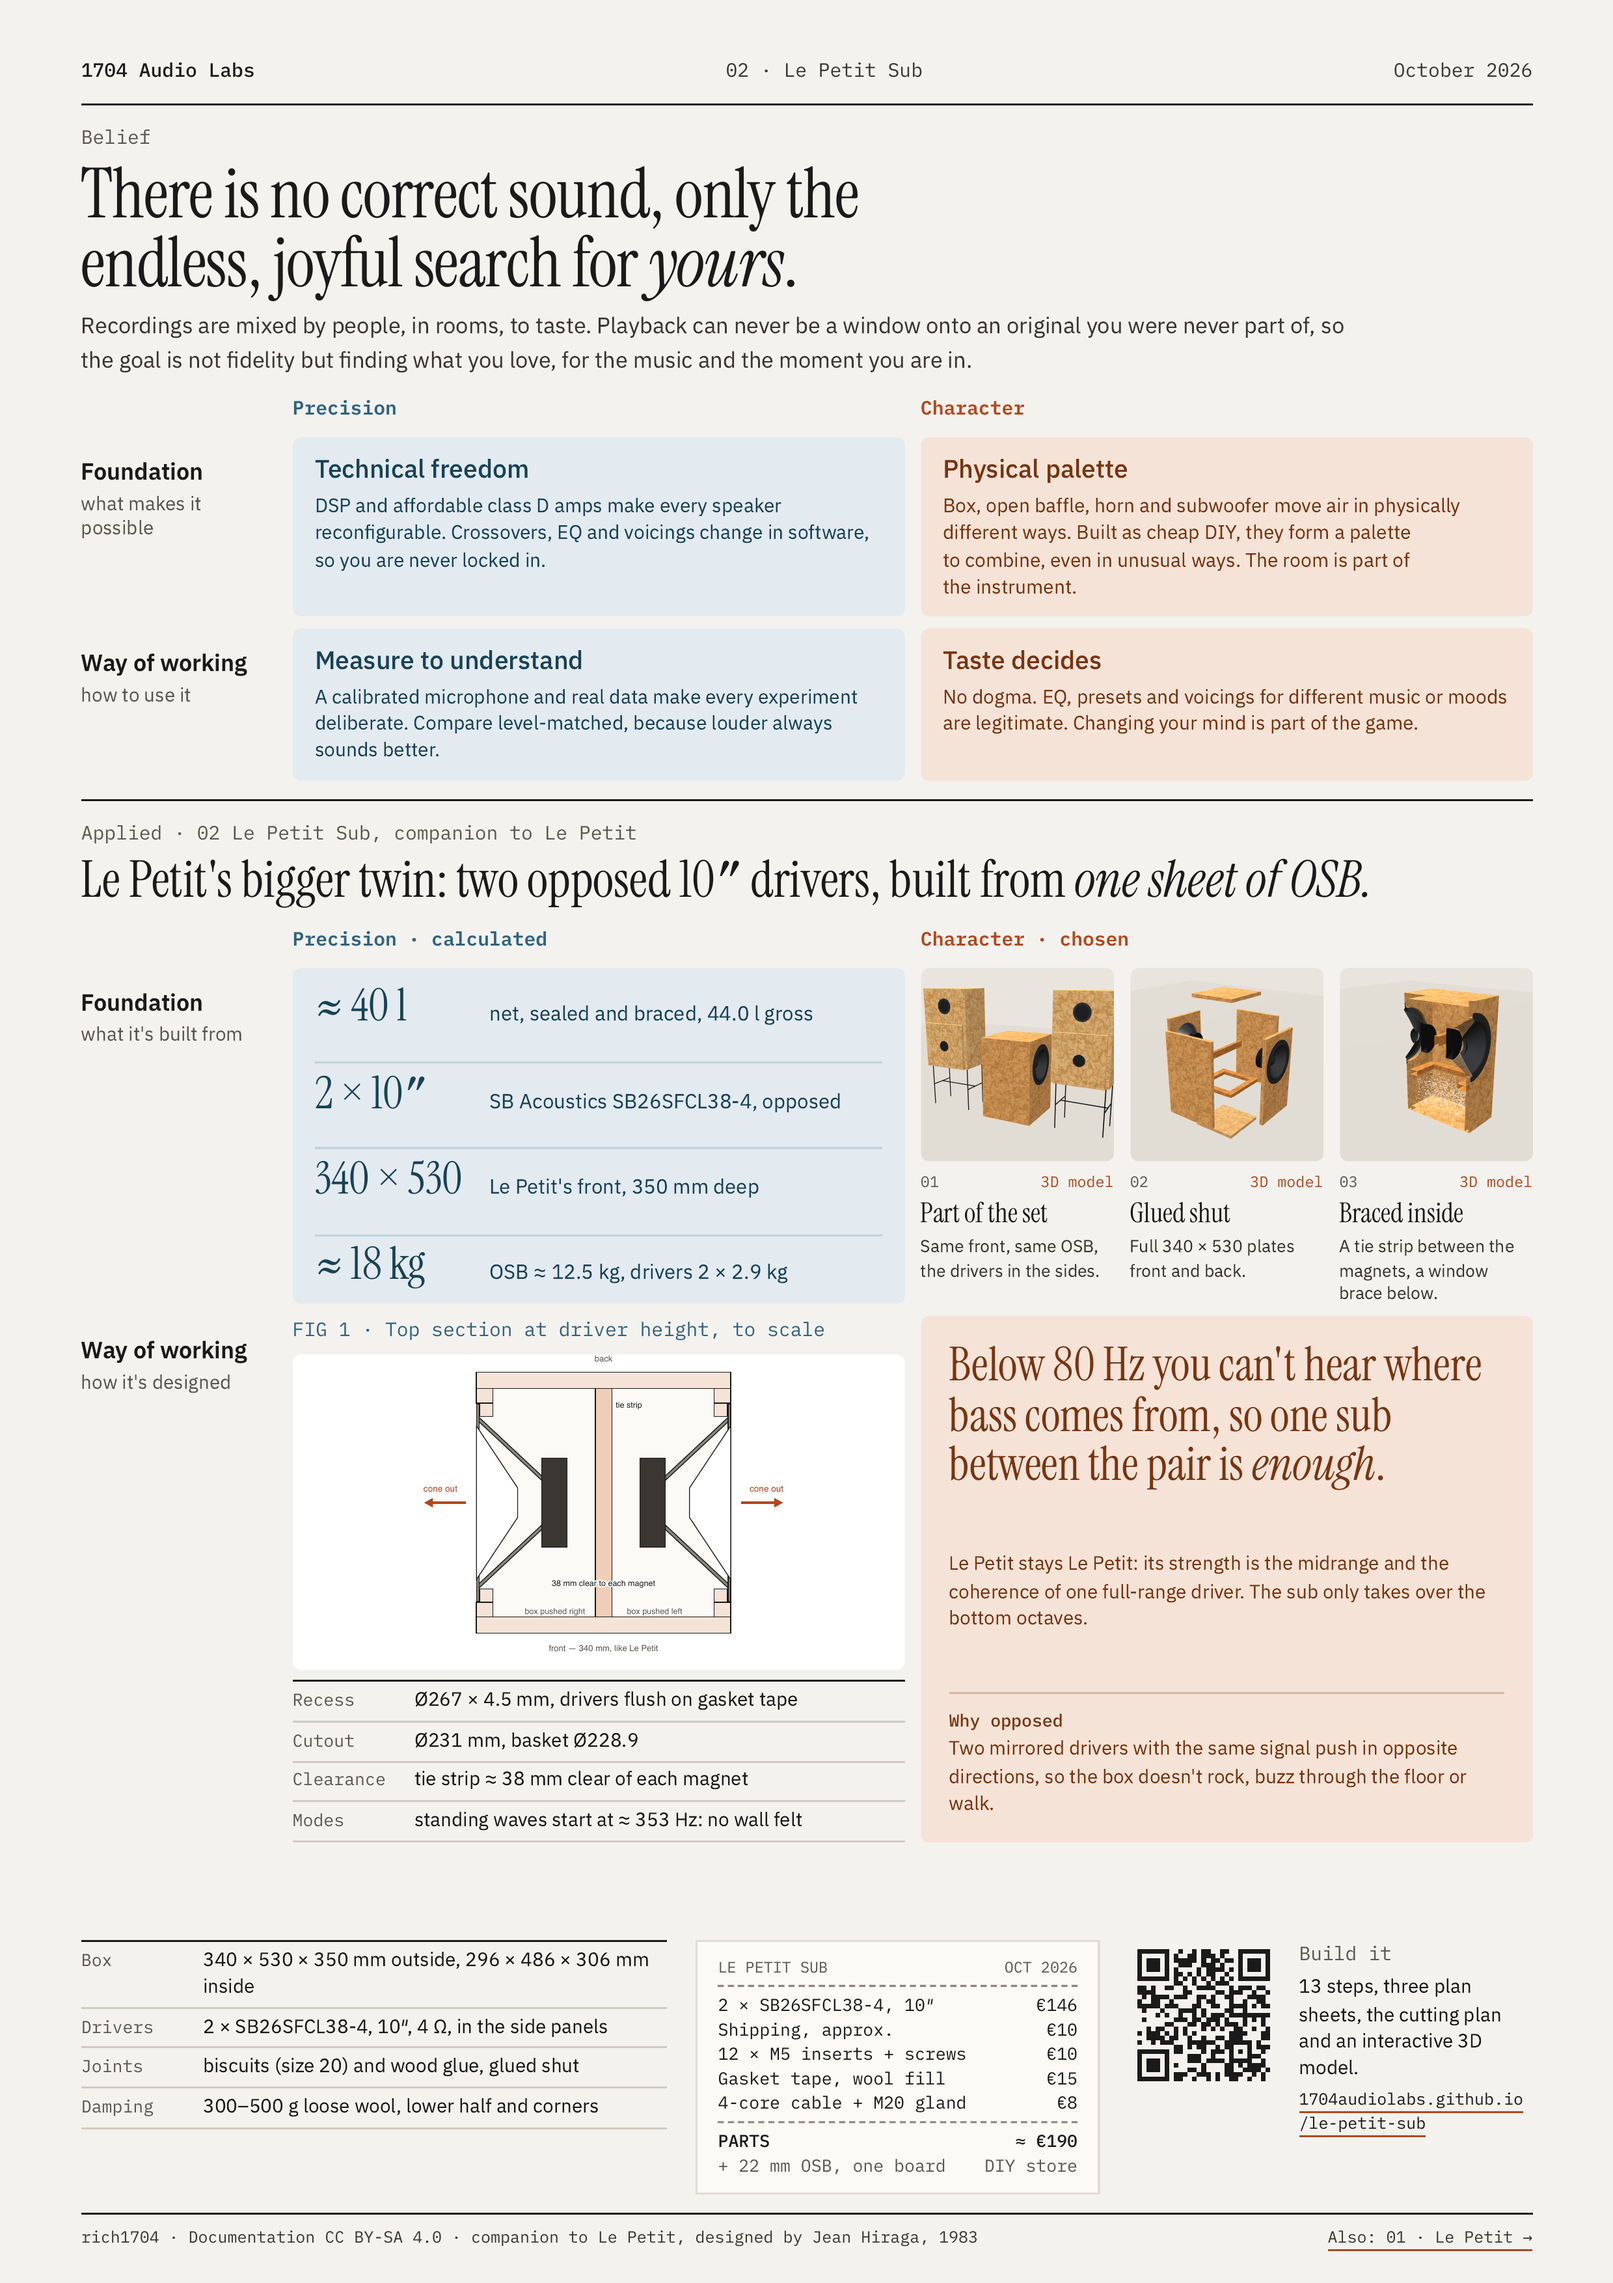
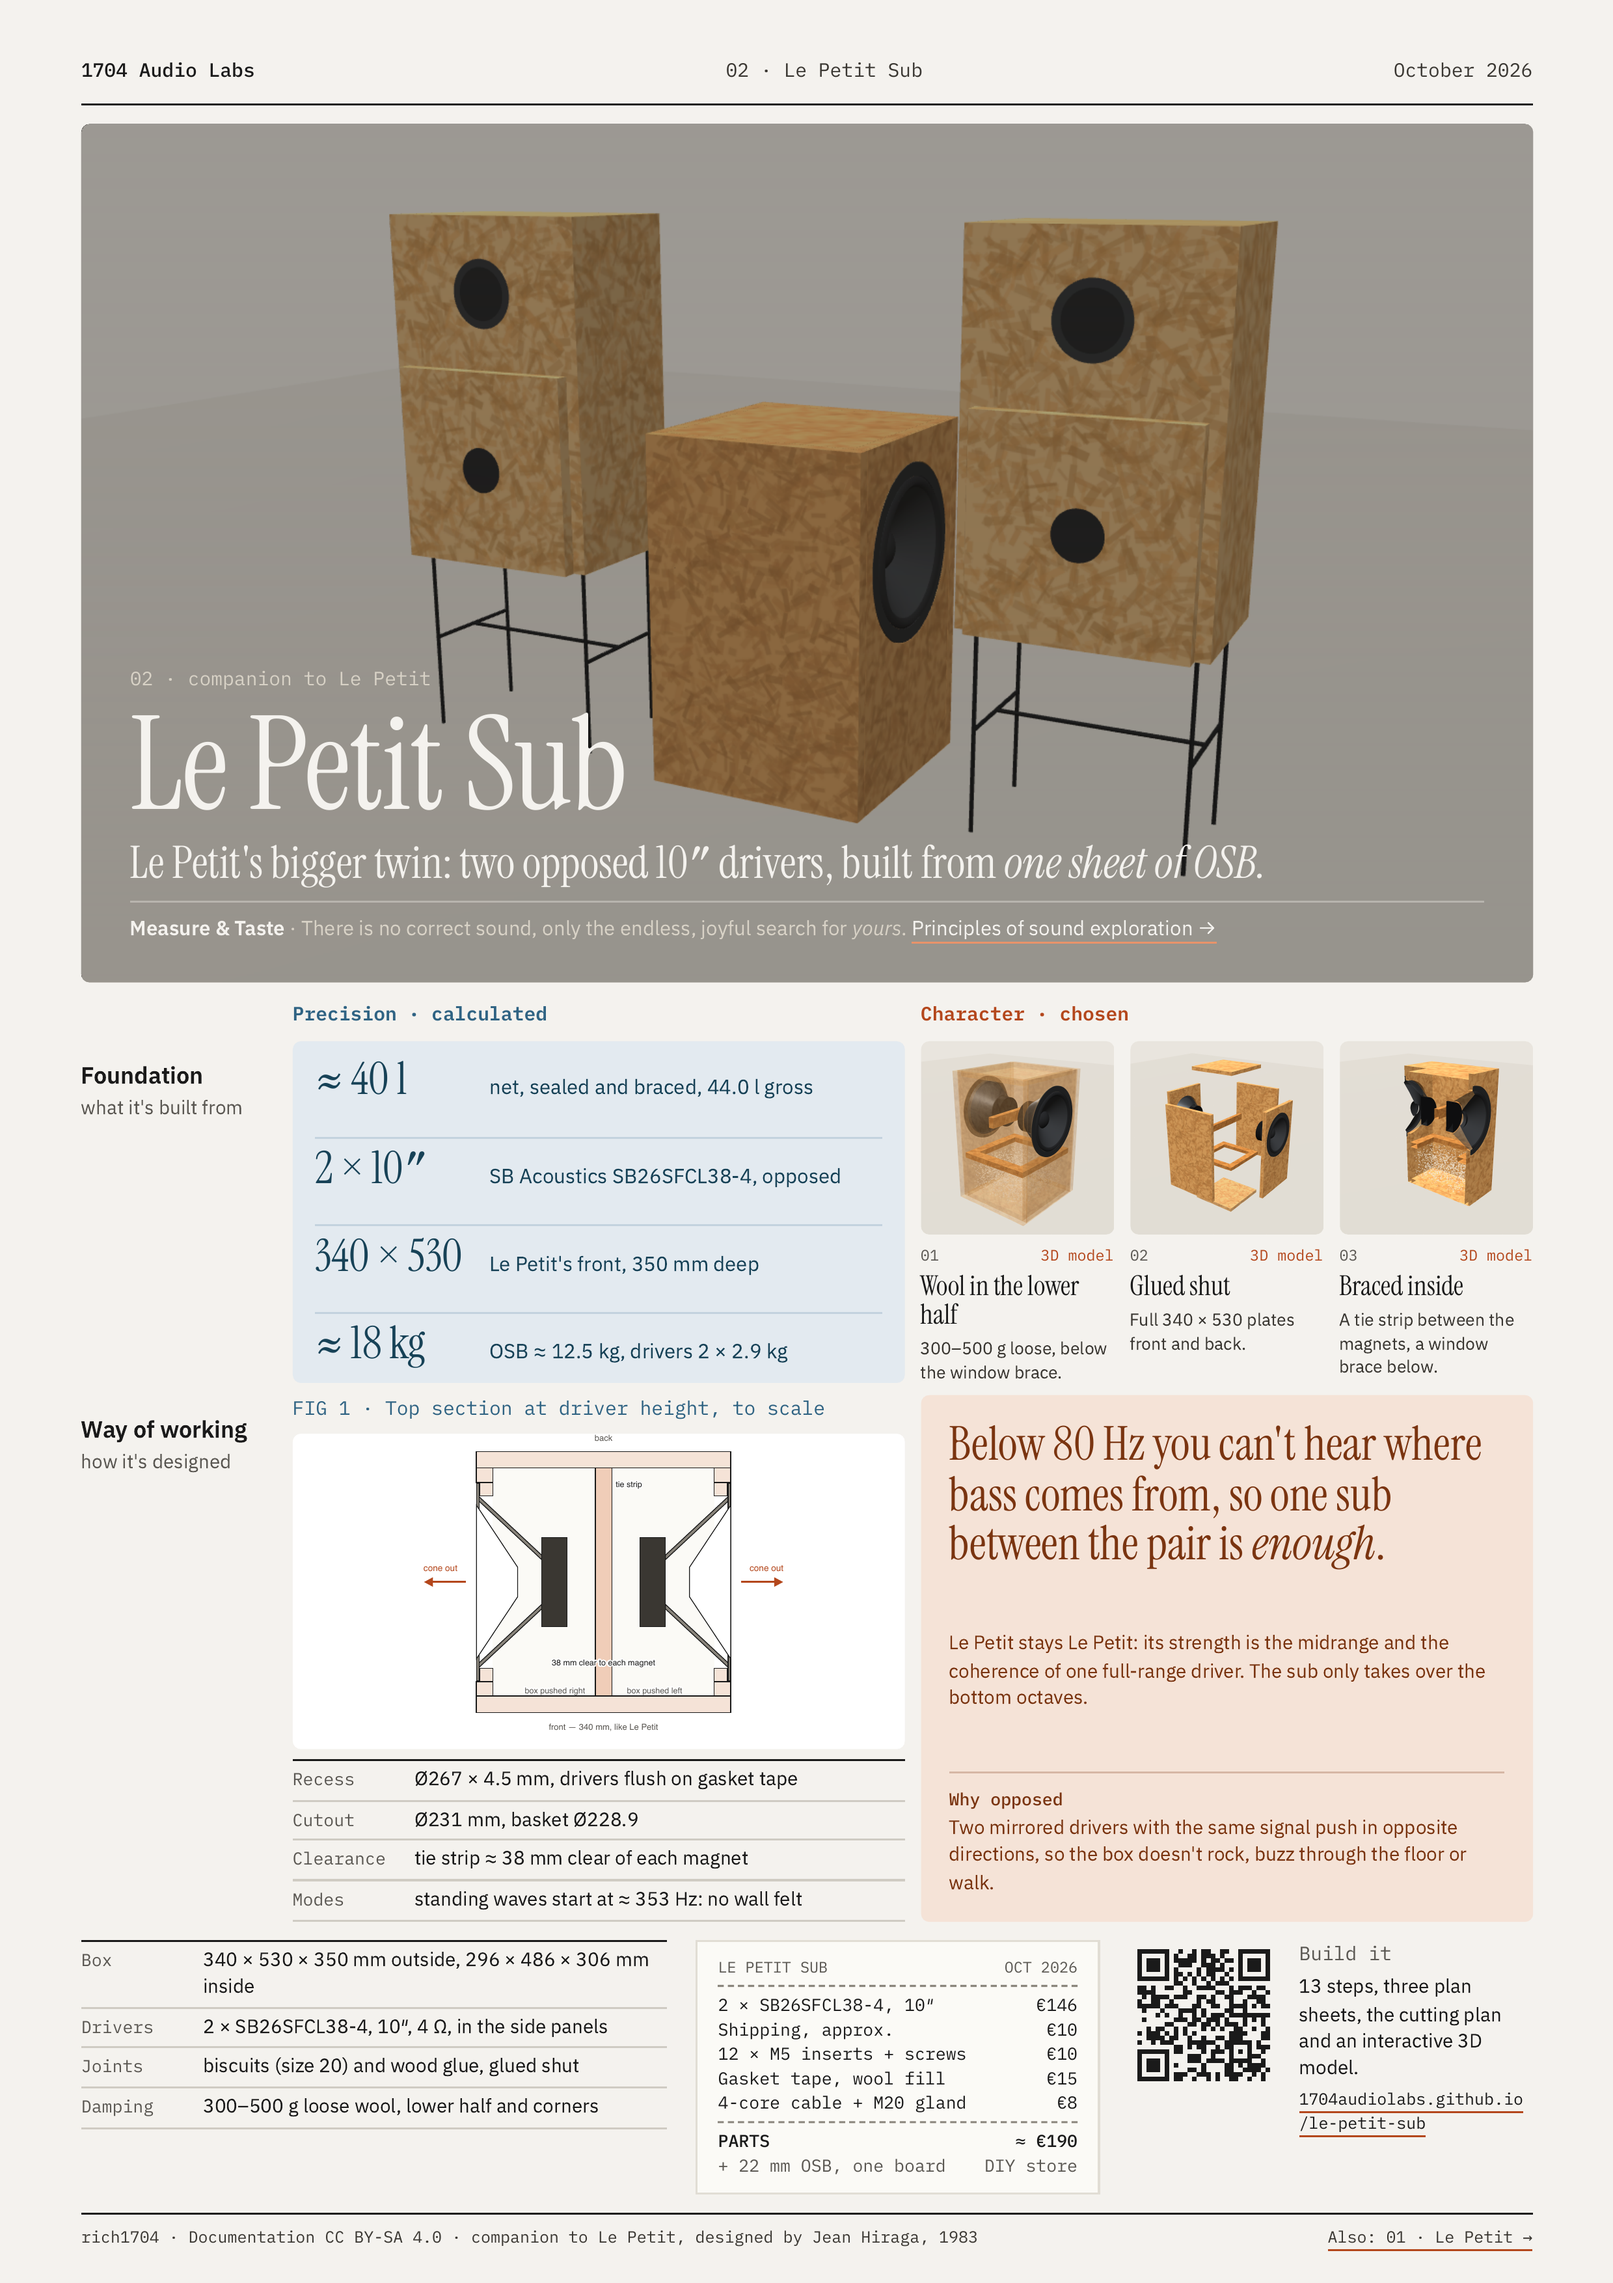
One-sheet: the project's cover band with name, finding, claim and the link to the principles; no generic headline, no principles grid

diff --git a/docs/assets/one-sheet.css b/docs/assets/one-sheet.css
@@ -6,6 +6,7 @@
   --graphite: #3A3732; --reference: #8A857C; --ink: #1A1A1A; --walnut: #1E1C19; --on-dark: #F4F2EE;
   --precision: #2F6383; --precision-deep: #174257; --precision-tint: #E3EAF0;
   --character: #B4471C; --character-deep: #7A3410; --character-tint: #F5E3D7;
+  --on-dark-muted: #D8D2C6; --character-on-dark: #E8936A;
   --display: "Instrument Serif", Georgia, serif; --text: "IBM Plex Sans", system-ui, sans-serif;
   --mono: "IBM Plex Mono", ui-monospace, monospace;
 }
@@ -36,13 +37,27 @@ a:hover { color: var(--character); }
   font-size: calc(9.5 * var(--u)); color: var(--graphite); }
 .mast .wordmark { font-weight: 500; color: var(--ink); }
 
-/* belief */
-.belief { display: flex; flex-direction: column; gap: calc(5 * var(--u)); }
-.belief__title { font-family: var(--display); font-weight: 400; font-size: calc(34 * var(--u)); line-height: 1;
-  letter-spacing: -.01em; max-width: calc(660 * var(--u)); text-wrap: balance; }
-.belief__text { font-size: calc(11 * var(--u)); line-height: 1.5; color: var(--graphite); max-width: calc(640 * var(--u)); text-wrap: pretty; }
+/* cover band: photo + the project's name and finding, the claim and the link to the principles on the hub.
+   It takes up the height the project and the footer leave, like the website's cover. */
+.cover { position: relative; flex: 1 1 auto; min-height: calc(300 * var(--u)); border-radius: 4px; overflow: hidden;
+  background: var(--walnut); color: var(--on-dark); display: flex; flex-direction: column; justify-content: flex-end; }
+.cover img { position: absolute; inset: 0; width: 100%; height: 100%; object-fit: cover; opacity: .62; }
+.cover::before { content: ""; position: absolute; inset: 0; background: linear-gradient(180deg, rgba(30,28,25,.35) 0%,
+  rgba(30,28,25,0) 28%, rgba(30,28,25,.25) 50%, rgba(30,28,25,.92) 100%); }
+.cover__body { position: relative; display: flex; flex-direction: column; gap: calc(6 * var(--u));
+  padding: calc(20 * var(--u)) calc(24 * var(--u)) calc(18 * var(--u)); }
+.cover__kicker { font-family: var(--mono); font-size: calc(9.5 * var(--u)); color: var(--on-dark-muted); }
+.cover__name { font-family: var(--display); font-weight: 400; font-size: calc(64 * var(--u)); line-height: .95;
+  letter-spacing: -.01em; }
+.cover__finding { font-family: var(--display); font-size: calc(22 * var(--u)); line-height: 1.08; max-width: calc(600 * var(--u));
+  text-wrap: balance; }
+.cover__claim { font-size: calc(10 * var(--u)); line-height: 1.45; color: var(--on-dark-muted); padding-top: calc(6 * var(--u));
+  border-top: 1px solid rgba(244,242,238,.35); }
+.cover__claim b { font-weight: 600; color: var(--on-dark); }
+.cover__claim a { color: var(--on-dark); text-decoration-color: var(--character-on-dark); white-space: nowrap; }
+.cover__claim a:hover { color: var(--character-on-dark); }
 
-/* the 2 x 2 grids: principles above, the project below, same columns */
+/* the project's 2 x 2 grid: the principles' columns and rows, filled with evidence */
 .grid { display: grid; grid-template-columns: calc(96 * var(--u)) minmax(0, 1fr) minmax(0, 1fr);
   gap: calc(6 * var(--u)) calc(8 * var(--u)); }
 .col { font-family: var(--mono); font-size: calc(9.5 * var(--u)); font-weight: 600; padding: 0 0 calc(1 * var(--u)); }
@@ -54,14 +69,6 @@ a:hover { color: var(--character); }
   gap: calc(4 * var(--u)); min-width: 0; }
 .tint-p { background: var(--precision-tint); color: var(--precision-deep); }
 .tint-c { background: var(--character-tint); color: var(--character-deep); }
-.principles .cell b { font-weight: 500; font-size: calc(12.5 * var(--u)); line-height: 1.2; }
-.principles .cell span { font-size: calc(9.6 * var(--u)); line-height: 1.38; text-wrap: pretty; }
-
-/* the turn to the project */
-.turn { display: flex; flex-direction: column; gap: calc(4 * var(--u)); padding-top: calc(9 * var(--u));
-  border-top: 1px solid var(--ink); }
-.turn__title { font-family: var(--display); font-weight: 400; font-size: calc(25 * var(--u)); line-height: 1.04;
-  text-wrap: balance; max-width: calc(714 * var(--u)); }
 
 /* key figures */
 .figures { gap: calc(6 * var(--u)); justify-content: space-between; }
@@ -75,6 +82,7 @@ a:hover { color: var(--character); }
 .plates { display: grid; grid-template-columns: repeat(3, minmax(0, 1fr)); gap: calc(8 * var(--u)); padding: 0; }
 .plate { margin: 0; display: flex; flex-direction: column; gap: calc(3 * var(--u)); min-width: 0; }
 .plate img { width: 100%; aspect-ratio: 1; object-fit: cover; border-radius: 4px; display: block; background: var(--walnut); }
+.plate img.crop-floor { object-position: 50% 92%; }
 .plate__meta { display: flex; justify-content: space-between; gap: calc(4 * var(--u)); font-family: var(--mono);
   font-size: calc(7.5 * var(--u)); white-space: nowrap; color: var(--pencil); padding-top: calc(2 * var(--u)); }
 .plate__meta span:last-child { color: var(--character); text-align: right; }
@@ -131,7 +139,10 @@ a:hover { color: var(--character); }
 @media (max-width: 700px) {
   .wrap { width: 100%; margin: 12px 0 32px; }
   .sheet { --u: 1.3px; width: 100%; aspect-ratio: auto; overflow: visible; padding: 24px 16px; gap: 22px; }
-  .belief__title { font-size: 40px; }
+  .cover { min-height: 420px; }
+  .cover__name { font-size: 48px; }
+  .cover__finding { font-size: 22px; }
+  .cover__claim { font-size: 13px; }
   .grid { grid-template-columns: minmax(0, 1fr) minmax(0, 1fr); }
   .grid > span:first-child { display: none; }
   .row { grid-column: 1 / -1; padding-top: 8px; }

diff --git a/tools/shoot_3d.py b/tools/shoot_3d.py
@@ -14,7 +14,7 @@ from svg2png import chrome
 
 ROOT = Path(__file__).resolve().parent.parent
 OUT = ROOT / "docs" / "assets" / "3d"
-SHOTS = {"with-le-petit": "", "cut-open": "&view=front&pair=0", "exploded": "&view=explode&pair=0"}
+SHOTS = {"with-le-petit": "", "see-through": "&view=xray&pair=0", "cut-open": "&view=front&pair=0", "exploded": "&view=explode&pair=0"}
 
 
 class Quiet(http.server.SimpleHTTPRequestHandler):

diff --git a/docs/one-sheet.md b/docs/one-sheet.md
@@ -1,28 +1,19 @@
 ---
 template: one-sheet.html
 title: Le Petit Sub on one page
-description: The belief behind the project, and Le Petit Sub on one A4 page — a sealed subwoofer with two opposed 10″ drivers, built from one sheet of OSB with Le Petit's front.
+description: Le Petit Sub on one A4 page — a sealed subwoofer with two opposed 10″ drivers, built from one sheet of OSB with Le Petit's front.
 sheet_label: One-sheet — Le Petit Sub
 ---
 
 <header class="mast"><span class="wordmark">1704 Audio Labs</span><span>02 · Le Petit Sub</span><span>October 2026</span></header>
-<section class="belief" aria-label="Belief">
-<span class="lab">Belief</span>
-<h1 class="belief__title">There is no correct sound, only the endless, joyful search for <i>yours</i>.</h1>
-<p class="belief__text">Recordings are mixed by people, in rooms, to taste. Playback can never be a window onto an original you were never part of, so the goal is not fidelity but finding what you love, for the music and the moment you are in.</p>
-</section>
-<section class="grid principles" aria-label="Principles of sound exploration">
-<span></span><span class="col col--p">Precision</span><span class="col col--c">Character</span>
-<div class="row"><b>Foundation</b><span>what makes it possible</span></div>
-<div class="cell tint-p"><b>Technical freedom</b><span>DSP and affordable class D amps make every speaker reconfigurable. Crossovers, EQ and voicings change in software, so you are never locked in.</span></div>
-<div class="cell tint-c"><b>Physical palette</b><span>Box, open baffle, horn and subwoofer move air in physically different ways. Built as cheap DIY, they form a palette to combine, even in unusual ways. The room is part of the instrument.</span></div>
-<div class="row"><b>Way of working</b><span>how to use it</span></div>
-<div class="cell tint-p"><b>Measure to understand</b><span>A calibrated microphone and real data make every experiment deliberate. Compare level-matched, because louder always sounds better.</span></div>
-<div class="cell tint-c"><b>Taste decides</b><span>No dogma. EQ, presets and voicings for different music or moods are legitimate. Changing your mind is part of the game.</span></div>
-</section>
-<section class="turn" aria-label="Applied">
-<span class="lab">Applied · 02 Le Petit Sub, companion to Le Petit</span>
-<h2 class="turn__title">Le Petit's bigger twin: two opposed 10″ drivers, built from <i>one sheet of OSB.</i></h2>
+<section class="cover" aria-label="Le Petit Sub">
+<img src="../assets/3d/with-le-petit.png" alt="3D model: the sub between a Le Petit pair">
+<div class="cover__body">
+<span class="cover__kicker">02 · companion to Le Petit</span>
+<h1 class="cover__name">Le Petit Sub</h1>
+<p class="cover__finding">Le Petit's bigger twin: two opposed 10″ drivers, built from <i>one sheet of OSB.</i></p>
+<p class="cover__claim"><b>Measure &amp; Taste</b> · There is no correct sound, only the endless, joyful search for <i>yours</i>. <a href="https://1704audiolabs.github.io/">Principles of sound exploration →</a></p>
+</div>
 </section>
 <section class="grid applied" aria-label="Le Petit Sub, calculated and chosen">
 <span></span><span class="col col--p">Precision · calculated</span><span class="col col--c">Character · chosen</span>
@@ -34,7 +25,7 @@ sheet_label: One-sheet — Le Petit Sub
 <p><strong>≈ 18 kg</strong><span>OSB ≈ 12.5 kg, drivers 2 × 2.9 kg</span></p>
 </div>
 <div class="cell plates">
-<figure class="plate"><img src="../assets/3d/with-le-petit.png" alt="3D model: the sub between a Le Petit pair"><span class="plate__meta"><span>01</span><span>3D model</span></span><span class="plate__title">Part of the set</span><span class="plate__text">Same front, same OSB, the drivers in the sides.</span></figure>
+<figure class="plate"><img src="../assets/3d/see-through.png" alt="3D model, see-through: tie strip, window brace and the wool below it"><span class="plate__meta"><span>01</span><span>3D model</span></span><span class="plate__title">Wool in the lower half</span><span class="plate__text">300–500 g loose, below the window brace.</span></figure>
 <figure class="plate"><img src="../assets/3d/exploded.png" alt="3D model, exploded: full front and back plates, sides, top, bottom and braces"><span class="plate__meta"><span>02</span><span>3D model</span></span><span class="plate__title">Glued shut</span><span class="plate__text">Full 340 × 530 plates front and back.</span></figure>
 <figure class="plate"><img src="../assets/3d/cut-open.png" alt="3D model, cut open: the tie strip between the two magnets"><span class="plate__meta"><span>03</span><span>3D model</span></span><span class="plate__title">Braced inside</span><span class="plate__text">A tie strip between the magnets, a window brace below.</span></figure>
 </div>

diff --git a/README.md b/README.md
@@ -6,7 +6,7 @@ OSB with exactly Le Petit's 340 × 530 front.**
 Also readable as a website, with the interactive 3D model: **https://1704audiolabs.github.io/le-petit-sub/** · the whole project on one
 page: **[one-sheet](https://1704audiolabs.github.io/le-petit-sub/one-sheet/)** · part of **[1704 Audio Labs](https://1704audiolabs.github.io/)** — Measure & Taste
 
-<a href="https://1704audiolabs.github.io/le-petit-sub/one-sheet/"><img src="docs/assets/one-sheet.png" alt="The one-sheet: belief, principles and Le Petit Sub on one A4 page" width="300"></a>
+<a href="https://1704audiolabs.github.io/le-petit-sub/one-sheet/"><img src="docs/assets/one-sheet.png" alt="The one-sheet: Le Petit Sub on one A4 page" width="300"></a>
 
 The companion to [Le Petit](https://github.com/1704audiolabs/le-petit).
 

diff --git a/docs/index.md b/docs/index.md
@@ -20,11 +20,11 @@ All files, drawings and scripts: **https://github.com/1704audiolabs/le-petit-sub
 part of **[1704 Audio Labs](https://1704audiolabs.github.io/)** — Measure & Taste
 
 <div class="oab-onesheet" markdown>
-[![The one-sheet: belief, principles and Le Petit Sub on one A4 page](assets/one-sheet.png)](one-sheet.md)
+[![The one-sheet: Le Petit Sub on one A4 page](assets/one-sheet.png)](one-sheet.md)
 <div markdown>
 <span class="oab-label">One-sheet · A4</span>
 
-**The whole project on one page** — the belief behind it, what was calculated and what was chosen.
+**The whole project on one page** — what was calculated, what was chosen and how to build it.
 [Open the one-sheet →](one-sheet.md)
 </div>
 </div>
